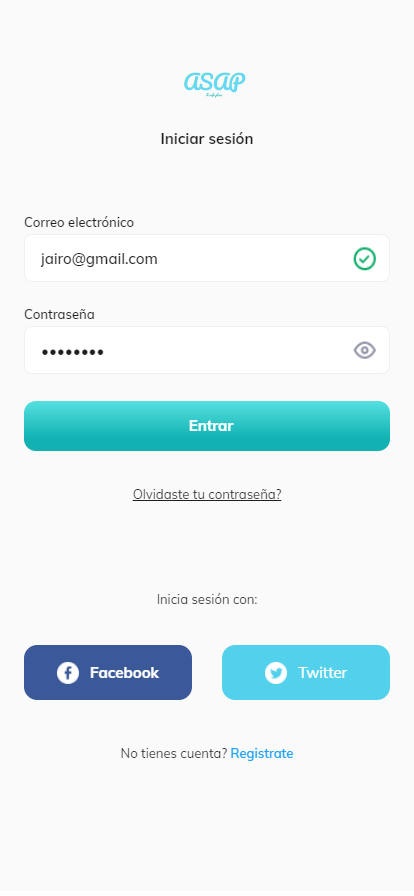
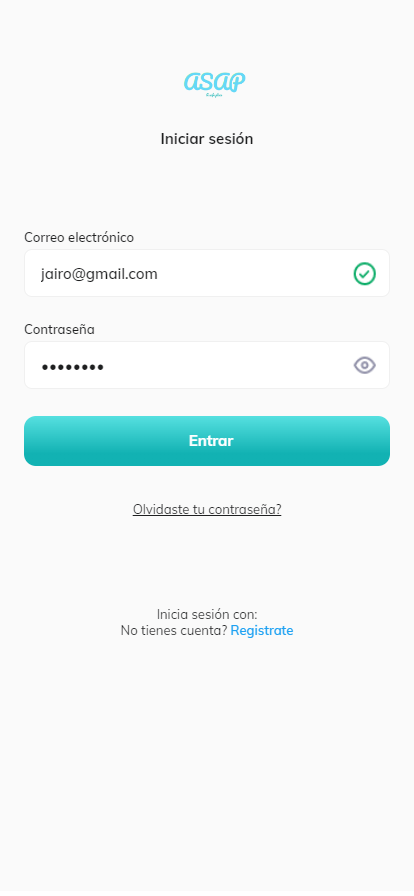
Removed sn login buttons

diff --git a/src/container/Account/Login/index.tsx b/src/container/Account/Login/index.tsx
@@ -58,7 +58,7 @@ const Login = memo((props: LoginProps) => {
       <ScrollView showsVerticalScrollIndicator={false}>
         <View style={styles.logoApp}>
           <Image source={IMAGE.logo} style={styles.logo} resizeMode="center" />
-          <Text type="H5" bold>
+          <Text type="H5" bold style={{marginBottom: "15px"}}>
           Iniciar sesión
           </Text>
         </View>
@@ -106,32 +106,6 @@ const Login = memo((props: LoginProps) => {
           <Text type="H6" color={Colors.GrayBlue}>
             Inicia sesión con:
           </Text>
-        </View>
-        <View style={styles.frameLoginSocial}>
-          <TouchableOpacity
-            style={styles.buttonFacebook}
-            onPress={onLogInFacebook}
-          >
-            <Image
-              style={{ width: scale(20), height: scale(20) }}
-              source={require("images/Icon/ic_facebook.png")}
-            />
-            <Text type="H5" white bold marginLeft={scale(10)}>
-              Facebook
-            </Text>
-          </TouchableOpacity>
-          <TouchableOpacity
-            style={styles.buttonTwitter}
-            onPress={onLogInTwitter}
-          >
-            <Image
-              style={{ width: scale(20), height: scale(20) }}
-              source={require("images/Icon/ic_twitter.png")}
-            />
-            <Text type="H5" white marginLeft={scale(10)}>
-              Twitter
-            </Text>
-          </TouchableOpacity>
         </View>
         <View style={styles.signUp}>
           <Text type="H6" color={Colors.GrayBlue}>
